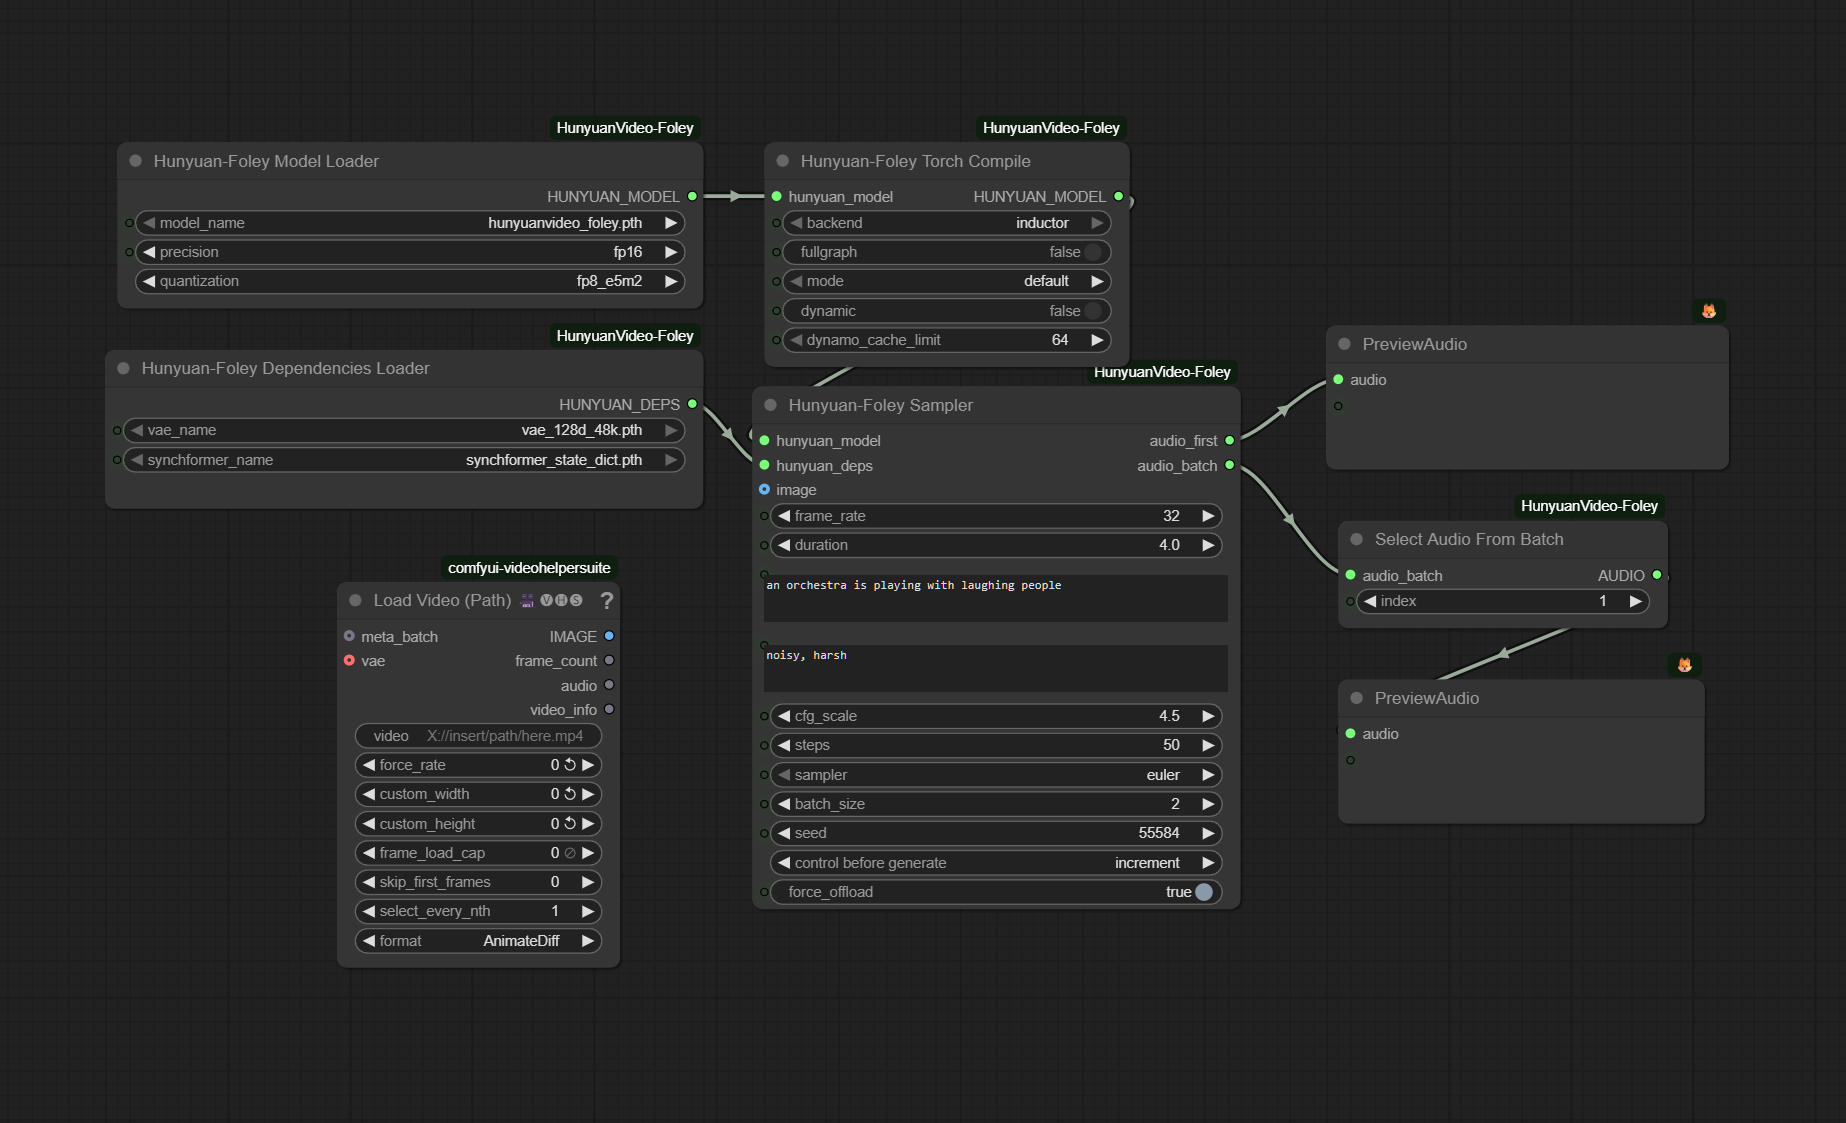
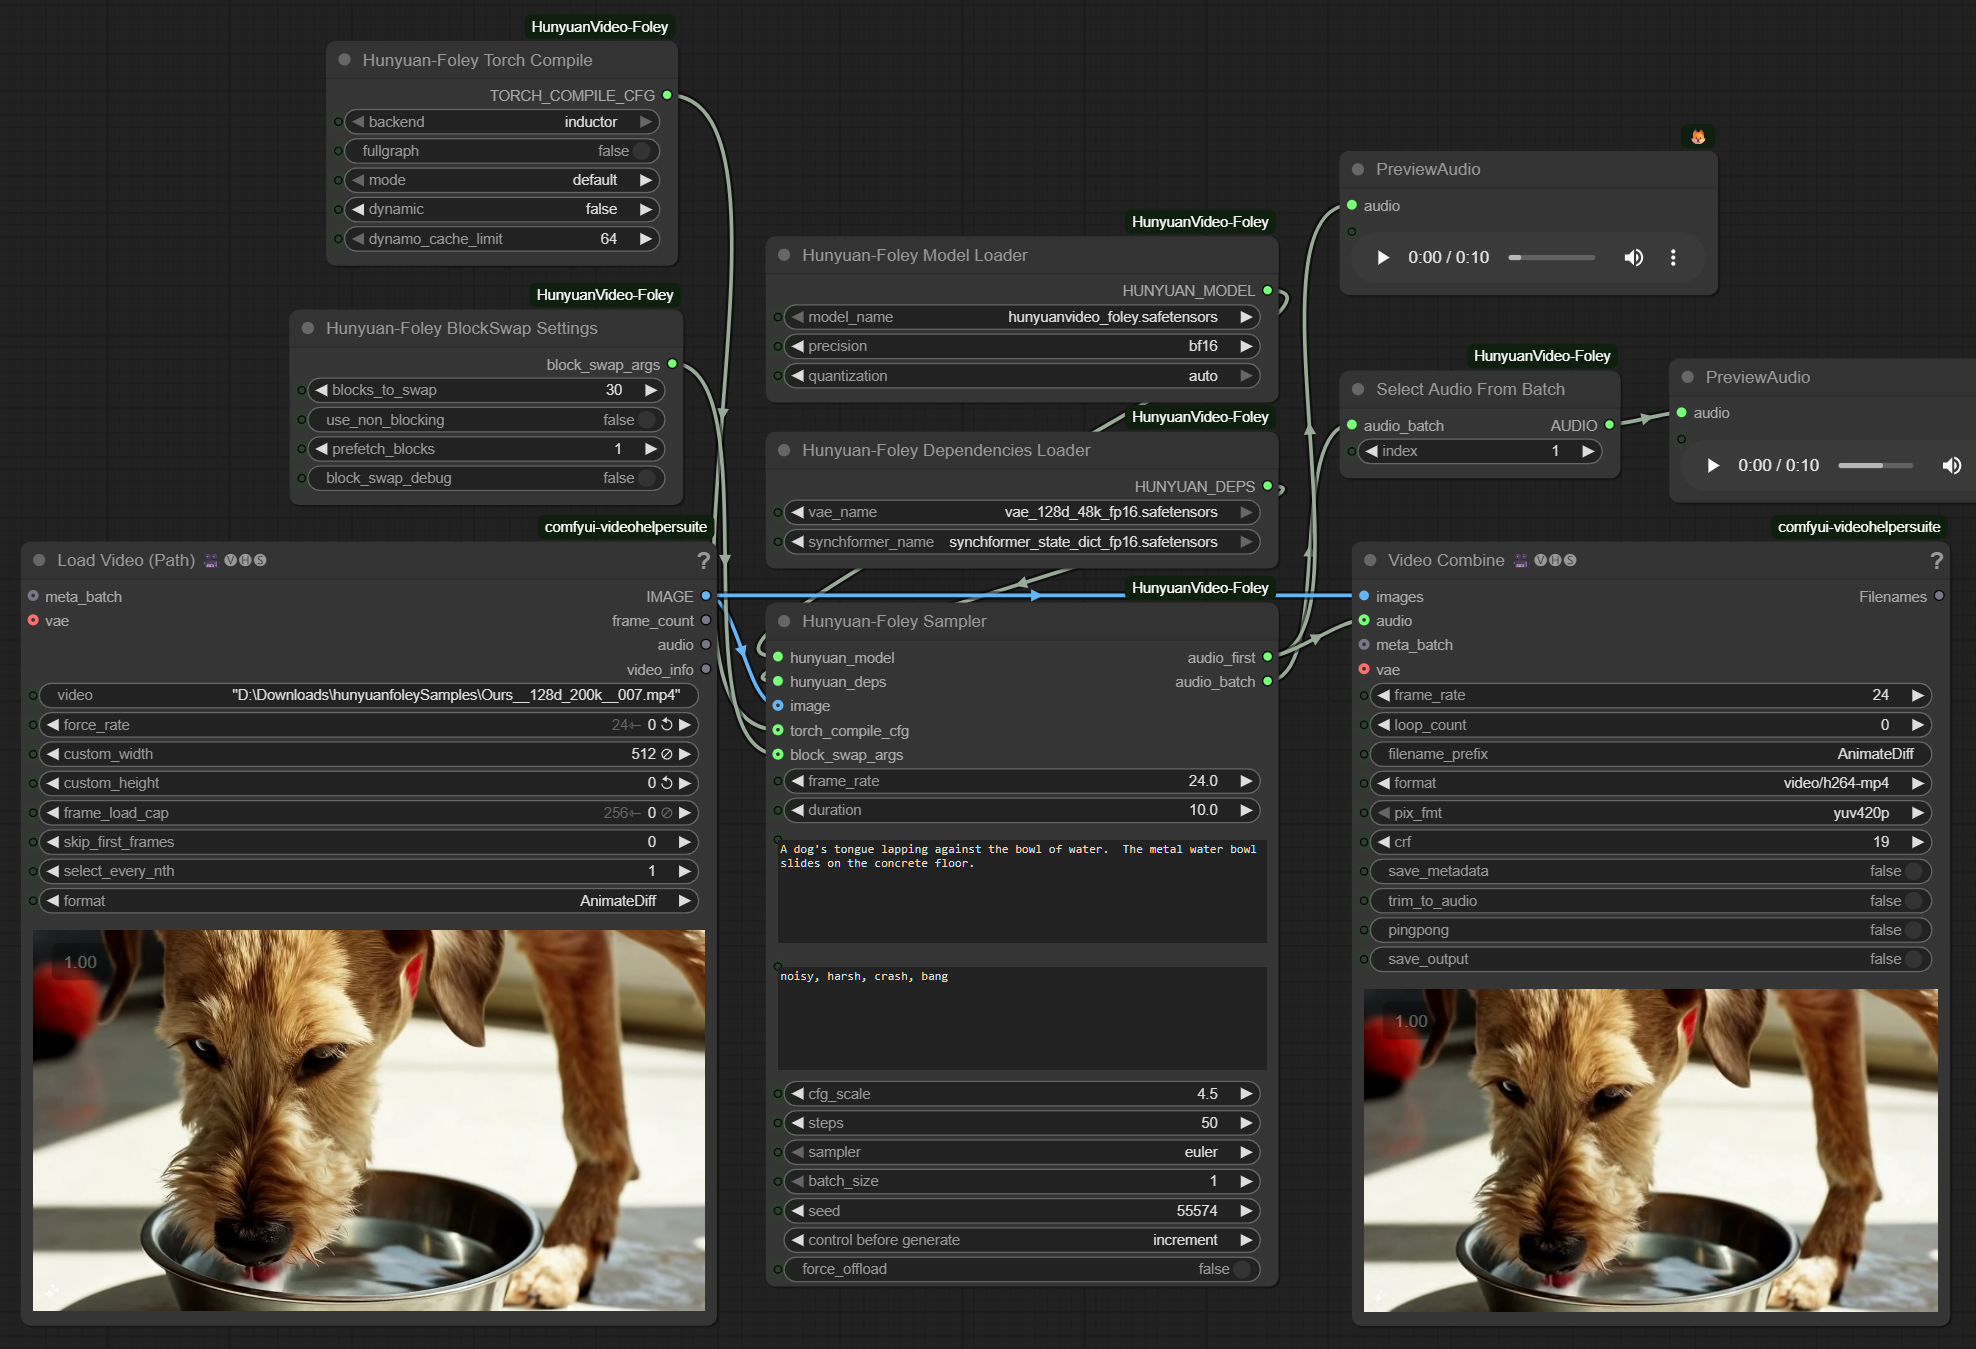
Bump version, examples, readme

diff --git a/README.md b/README.md
@@ -1,32 +1,56 @@
-# ComfyUI – HunyuanVideo‑Foley Video to Audio
+# 🎵 ComfyUI – HunyuanVideo‑Foley Video to Audio
 
 A tidy set of nodes for **Tencent HunyuanVideo‑Foley** that runs on modest GPUs and scales up nicely.
 
+## ⚡ Optimized Models Available
+
+**Pre-converted safetensors models with fp16 and fp8 variants are available for faster loading and reduced VRAM usage.** The fp8 models enable operation under 8GB VRAM, and with block swap, you can run under 4GB VRAM. [See model files section](#-where-to-put-the-model-files) for download links and file details.
+
 ![Workflow Diagram](./example_workflows/HunyuanVideoFoleyExample.png)
 
-## Node overview (start here)
+## 🚀 Node overview (start here)
 
 * **Hunyuan‑Foley Model Loader** – loads the main model. Two simple knobs:
 
   * **Precision**: runtime math quality (bf16/fp16/fp32).
-  * **FP8 Quantization** (weight‑only): lowers VRAM usage < 12GB. *Turn this on if you’re GPU‑poor.*
+  * **FP8 Quantization** (weight‑only): lowers VRAM usage < 12GB. *Turn this on if you're GPU‑poor.*
 * **Hunyuan‑Foley Dependencies Loader** – loads DAC‑VAE, SigLIP2, Synchformer, and CLAP.
 * **Hunyuan‑Foley Sampler** – makes the audio. Images are **optional** (works great as **Text→Audio**). Supports **negative prompt** and **batching**.
 * **Hunyuan‑Foley Torch Compile** (optional) – uses `torch.compile` for speed. First run compiles; repeats are **\~30% faster**.
+* **Hunyuan‑Foley BlockSwap Settings** (optional) – enables under 4GB VRAM operation by offloading transformer blocks to CPU.
 
-## Quick start
+## ⚡ Quick start
 
 1. Drop **Model Loader → Dependencies Loader → (optional) Torch Compile → Sampler**.
 2. For **Text→Audio**, leave the image input empty. For **Video→Audio**, connect an image sequence and set `frame_rate`.
 3. Tweak **Prompt** and **Negative Prompt**. Leave sampler on **Euler**, `CFG≈4.5`, `Steps≈50`.
 4. Press **Queue** and preview the audio.
 
-## Where to put the model files
+## 📁 Where to put the model files
 
-Download from Hugging Face:
-[https://huggingface.co/tencent/HunyuanVideo-Foley/tree/main](https://huggingface.co/tencent/HunyuanVideo-Foley/tree/main)
+
+**Optimized safetensors files available at:**
+[https://huggingface.co/phazei/HunyuanVideo-Foley](https://huggingface.co/phazei/HunyuanVideo-Foley) (converted safetensors with fp16 and fp8 variants)
+
+I couldn't tell any difference between the quality with fp8 and fp16, so I'd suggest the 8.  For those on a 3090 and lower, torch compile will only work with the e5m2 file.
+
+_Be sure to **set quantization on the loader node to auto or fp8** if using an fp8 model or it will be upcast to fp16 in memory_
+
+**Converted safetensors files:**
+```
+hunyuanvideo_foley.safetensors             # ~10.3 GB  main model (fp16)
+hunyuanvideo_foley_fp8_e4m3fn.safetensors  # ~5.34 GB  main model (fp8)
+hunyuanvideo_foley_fp8_e5m2.safetensors    # ~5.34 GB  main model (fp8)
+synchformer_state_dict_fp16.safetensors    # ~475 MB   sync encoder (fp16)
+vae_128d_48k_fp16.safetensors              # ~743 MB   DAC‑VAE (fp16)
+```
 
 Place them in **`ComfyUI/models/foley/`**:
+
+**Original files:**
+Download from Hugging Face:
+[https://huggingface.co/tencent/HunyuanVideo-Foley/tree/main](https://huggingface.co/tencent/HunyuanVideo-Foley/tree/main) (original PyTorch files)
+
 
 ```
 hunyuanvideo_foley.pth         # ~10.3 GB  main model
@@ -36,35 +60,37 @@ vae_128d_48k.pth               # ~1.49 GB  DAC‑VAE
 
 > Tested with **PyTorch 2.7 and 2.8**.
 
-## The two dropdowns
+## ⚙ The Model Loader dropdowns
 
 * **Precision** = how carefully the math runs. `bf16`/`fp16` are fast and standard; `fp32` is heaviest. Pick `bf16` (default) or `fp16` on 30‑series GPUs if you prefer.
-* **FP8 Quantization** = store big Linear weights in **FP8** to save memory. Compute still runs in `Precision`, so sound quality holds.
+* **FP8 Quantization** = store big Linear weights in **FP8** to save memory. Compute still runs in `Precision`, so sound quality holds.  (Must be selected for fp8 safetensors)
 
   * **`auto`** tries to match the checkpoint or uses a safe default.
   * Expect **less VRAM**, not more speed.
 
-## Memory & speed at a glance
+## 💾 Memory & speed at a glance
 
 * Typical 5s / 50 steps on a 24 GB card:
 
   * Baseline: \~10–12 GB
   * With ping‑pong offloading (built‑in): \~9–10 GB
-  * **With FP8 quant**: subtract another **\~1–2+ GB**
+  * **With FP8 quant**: subtract another **\~4+ GB** (**under 8GB VRAM**)
+  * **With Block Swap**: **under 4GB VRAM** It's slower the higher the swap, up to 60s for 5s, but it'll fit!
   * **Torch Compile**: after the first compile, runs are **\~30% faster**
-* **Under‑12 GB recipe:** set **FP8 Quant** on, keep **batch\_size=1**, steps ≤ **50**. That’s it.
+* **Under‑12 GB recipe:** set **FP8 Quant** on, keep **batch\_size=1**, steps ≤ **50**. That's it.
 
-## Batching
+## 🔄 Batching
 
 * `batch_size` generates multiple variations at once. VRAM scales roughly with batch size.
 * Use **Select Audio From Batch** to pick the clip you like.
 
-## Tips & fixes
+## 💡 Tips & fixes
 
 * If you OOM, drop `batch_size`, reduce `steps`, or enable **force\_offload** in the sampler.
 
-## Credits
+## 🙏 Credits
 
 * Model & weights: **Tencent HunyuanVideo‑Foley**.
 * ComfyUI and community for the scaffolding.
-* This repo adds VRAM‑friendly loading, **FP8** weight‑only option, and an optional **torch.compile** speed path.
+* This repo adds VRAM‑friendly loading, **FP8** weight‑only option, **block swap** for ultra-low VRAM, and an optional **torch.compile** speed path.
+
